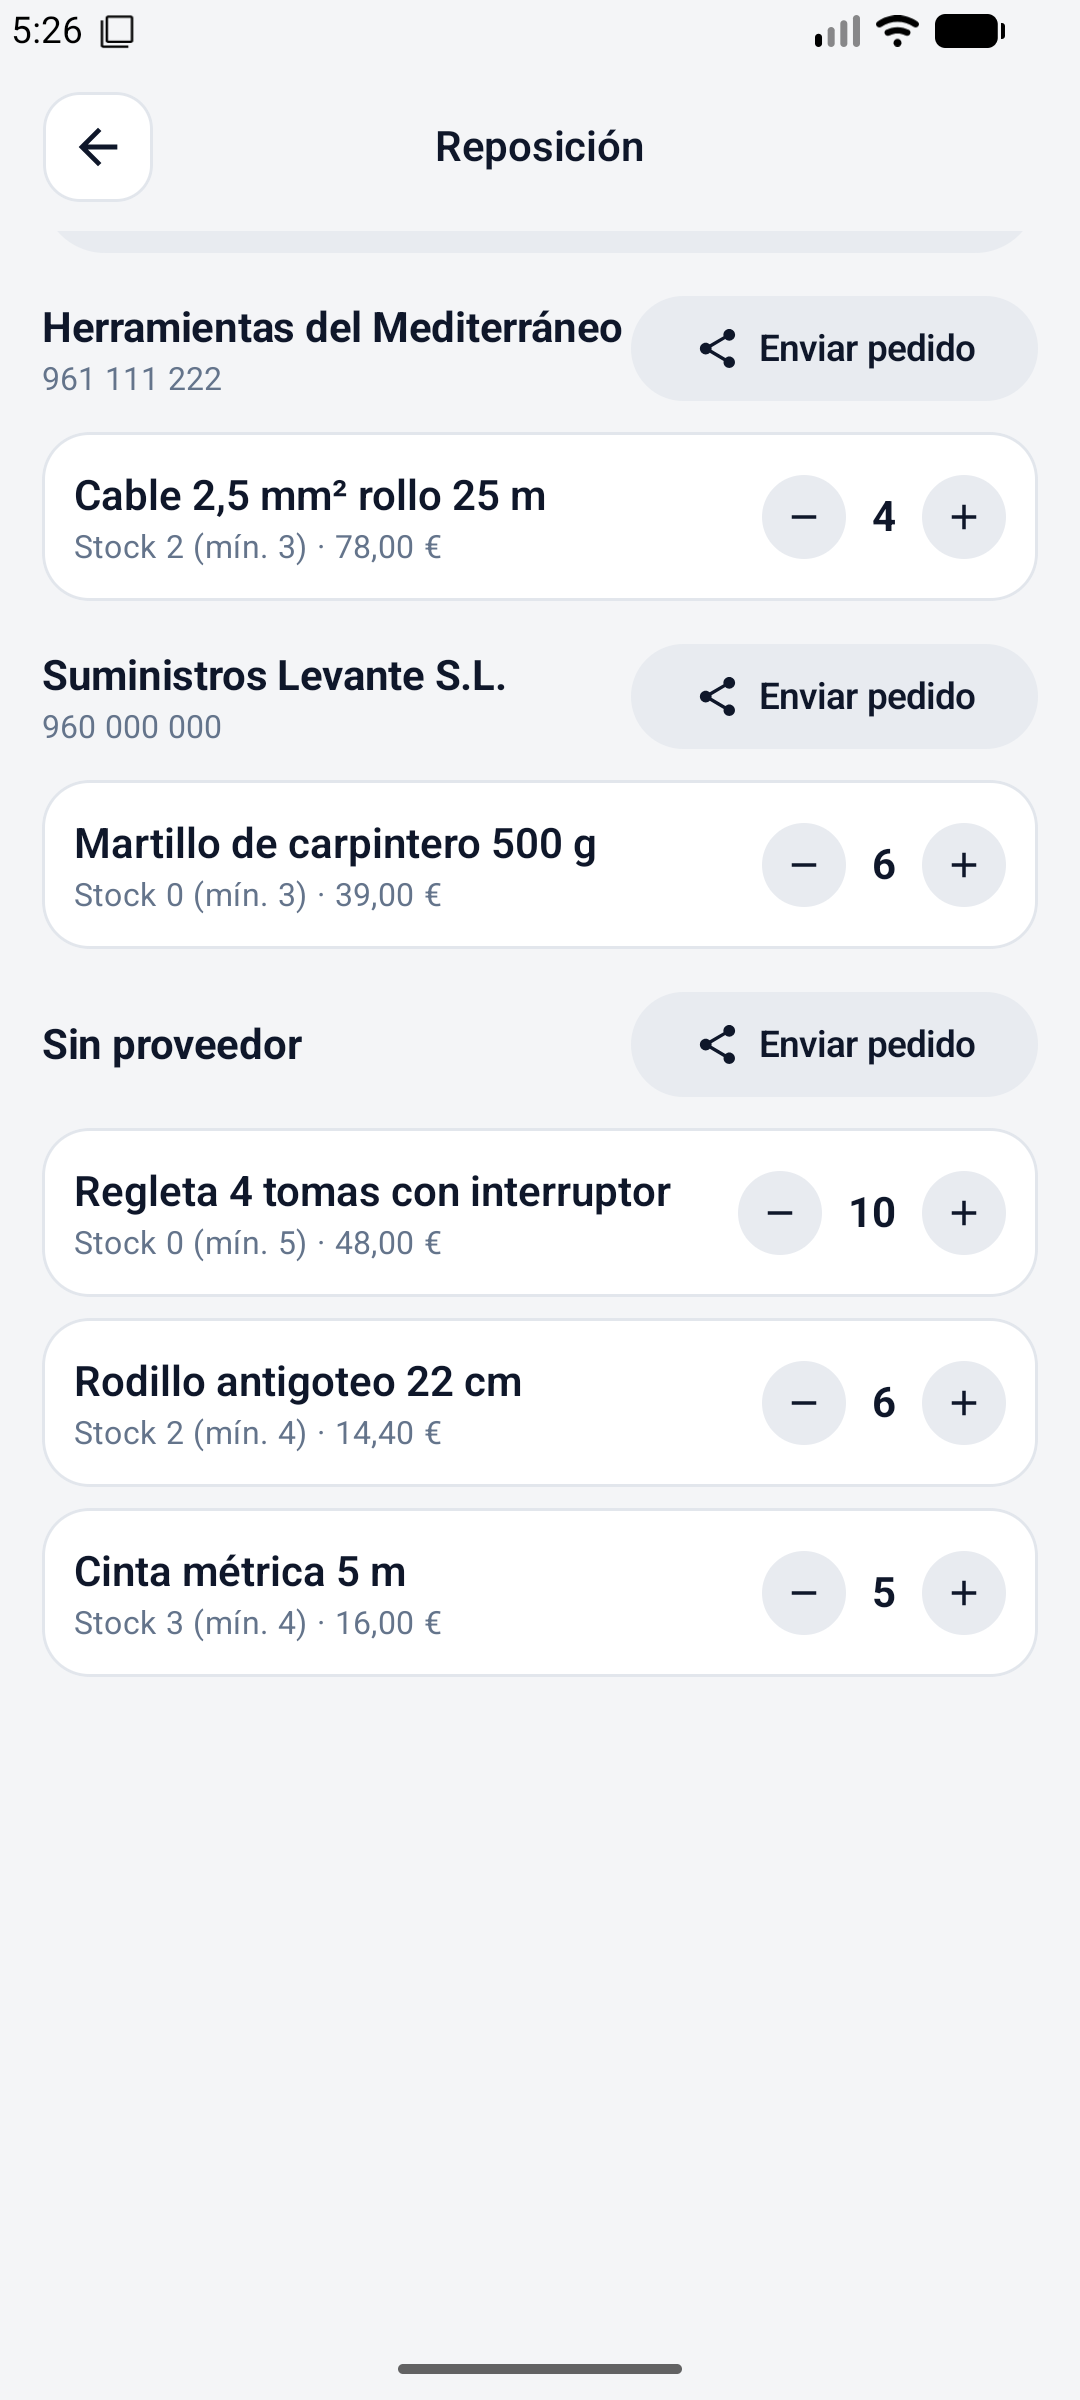
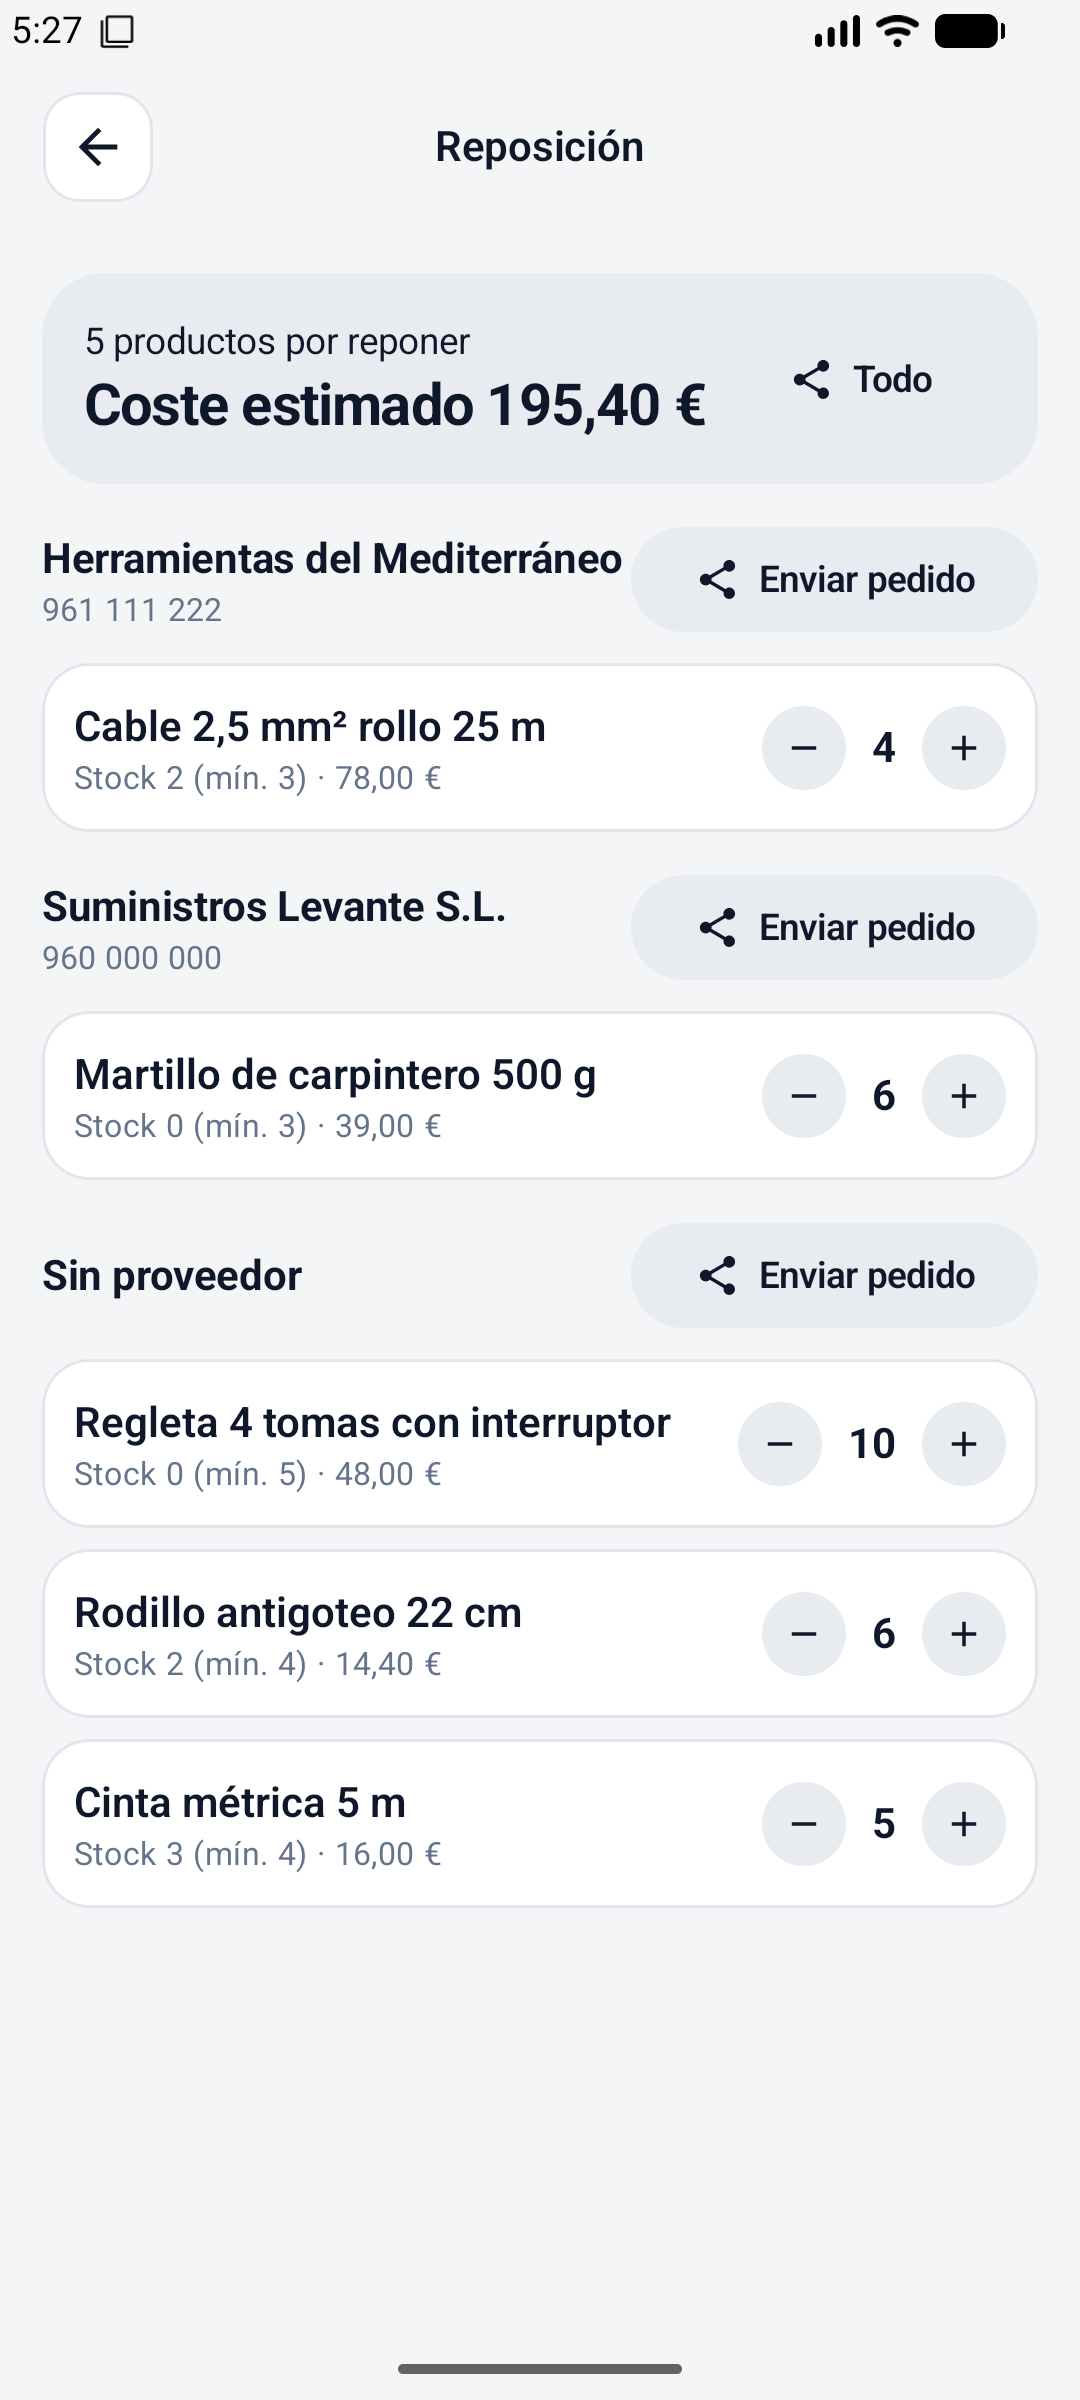
Reposición: el resumen ya no queda bajo la cabecera

diff --git a/android/app/src/main/java/com/stockpyme/app/ui/reposicion/Reposicion.kt b/android/app/src/main/java/com/stockpyme/app/ui/reposicion/Reposicion.kt
@@ -119,7 +119,7 @@ fun PantallaReposicion(onAtras: () -> Unit) {
             modifier = Modifier.padding(margenes),
         ) {
             LazyColumn(
-                modifier = Modifier.fillMaxSize(),
+                modifier = Modifier.padding(margenes).fillMaxSize(),
                 contentPadding = PaddingValues(16.dp),
                 verticalArrangement = Arrangement.spacedBy(12.dp),
             ) {
